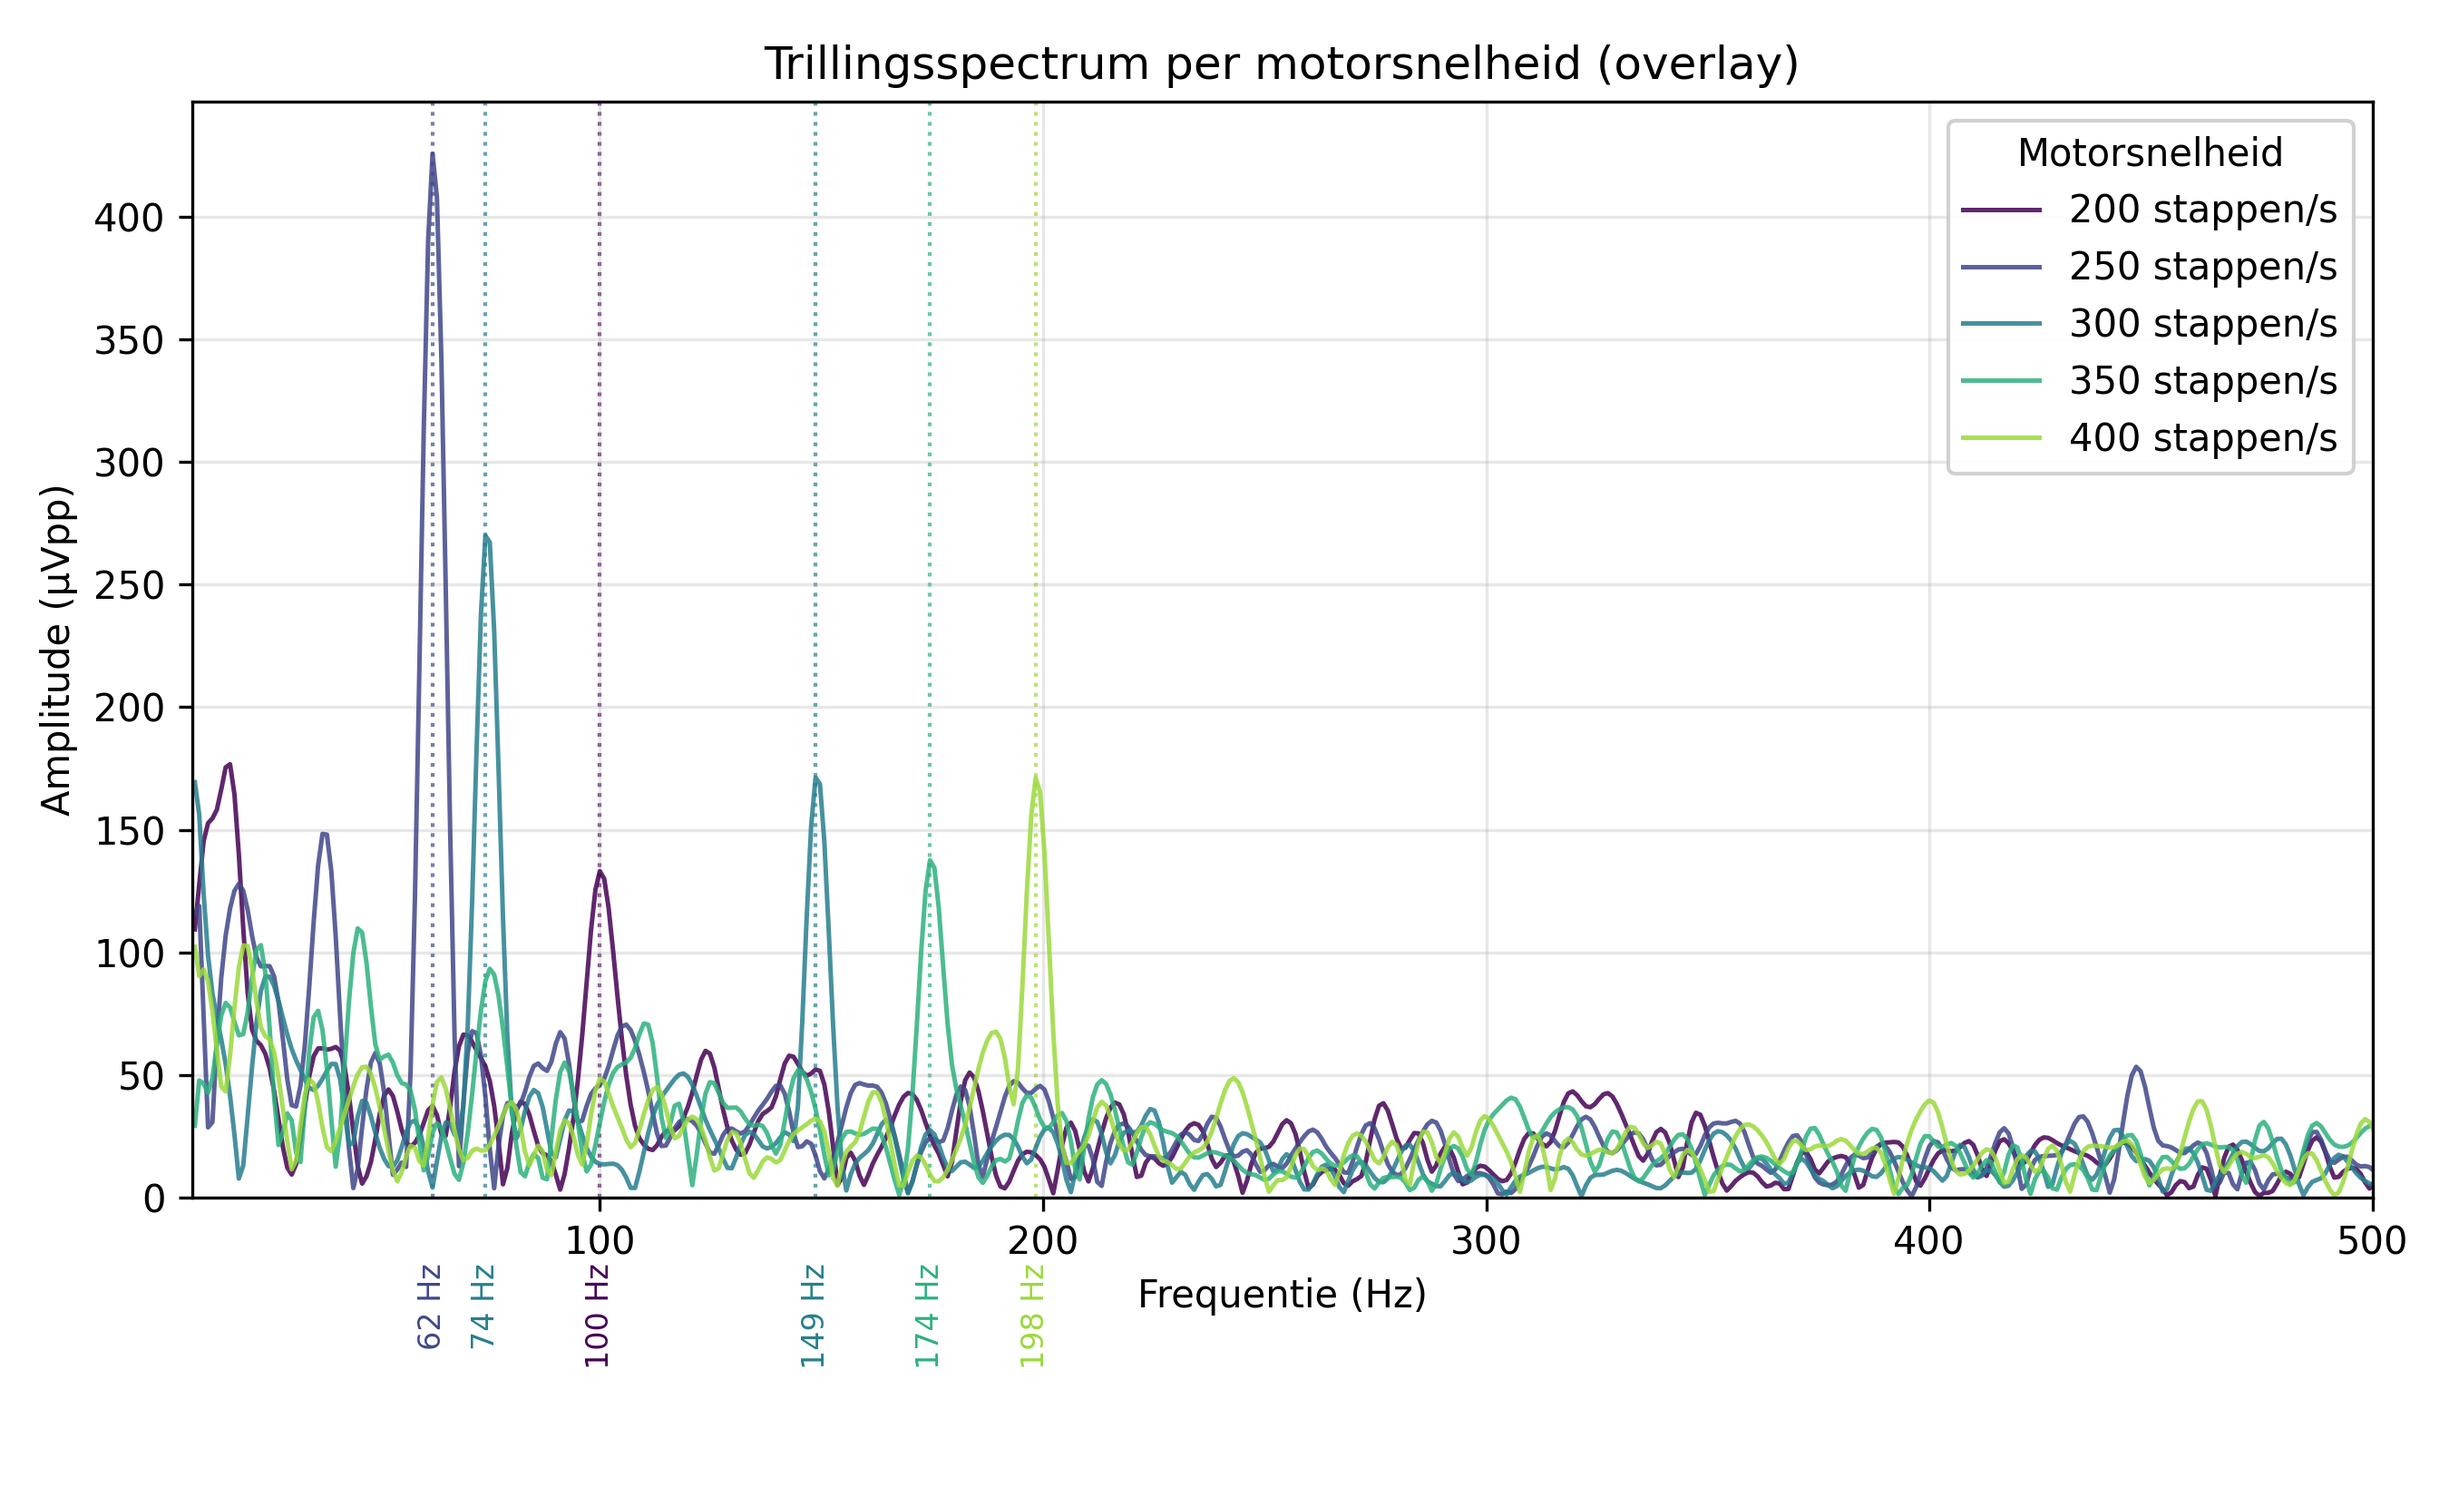
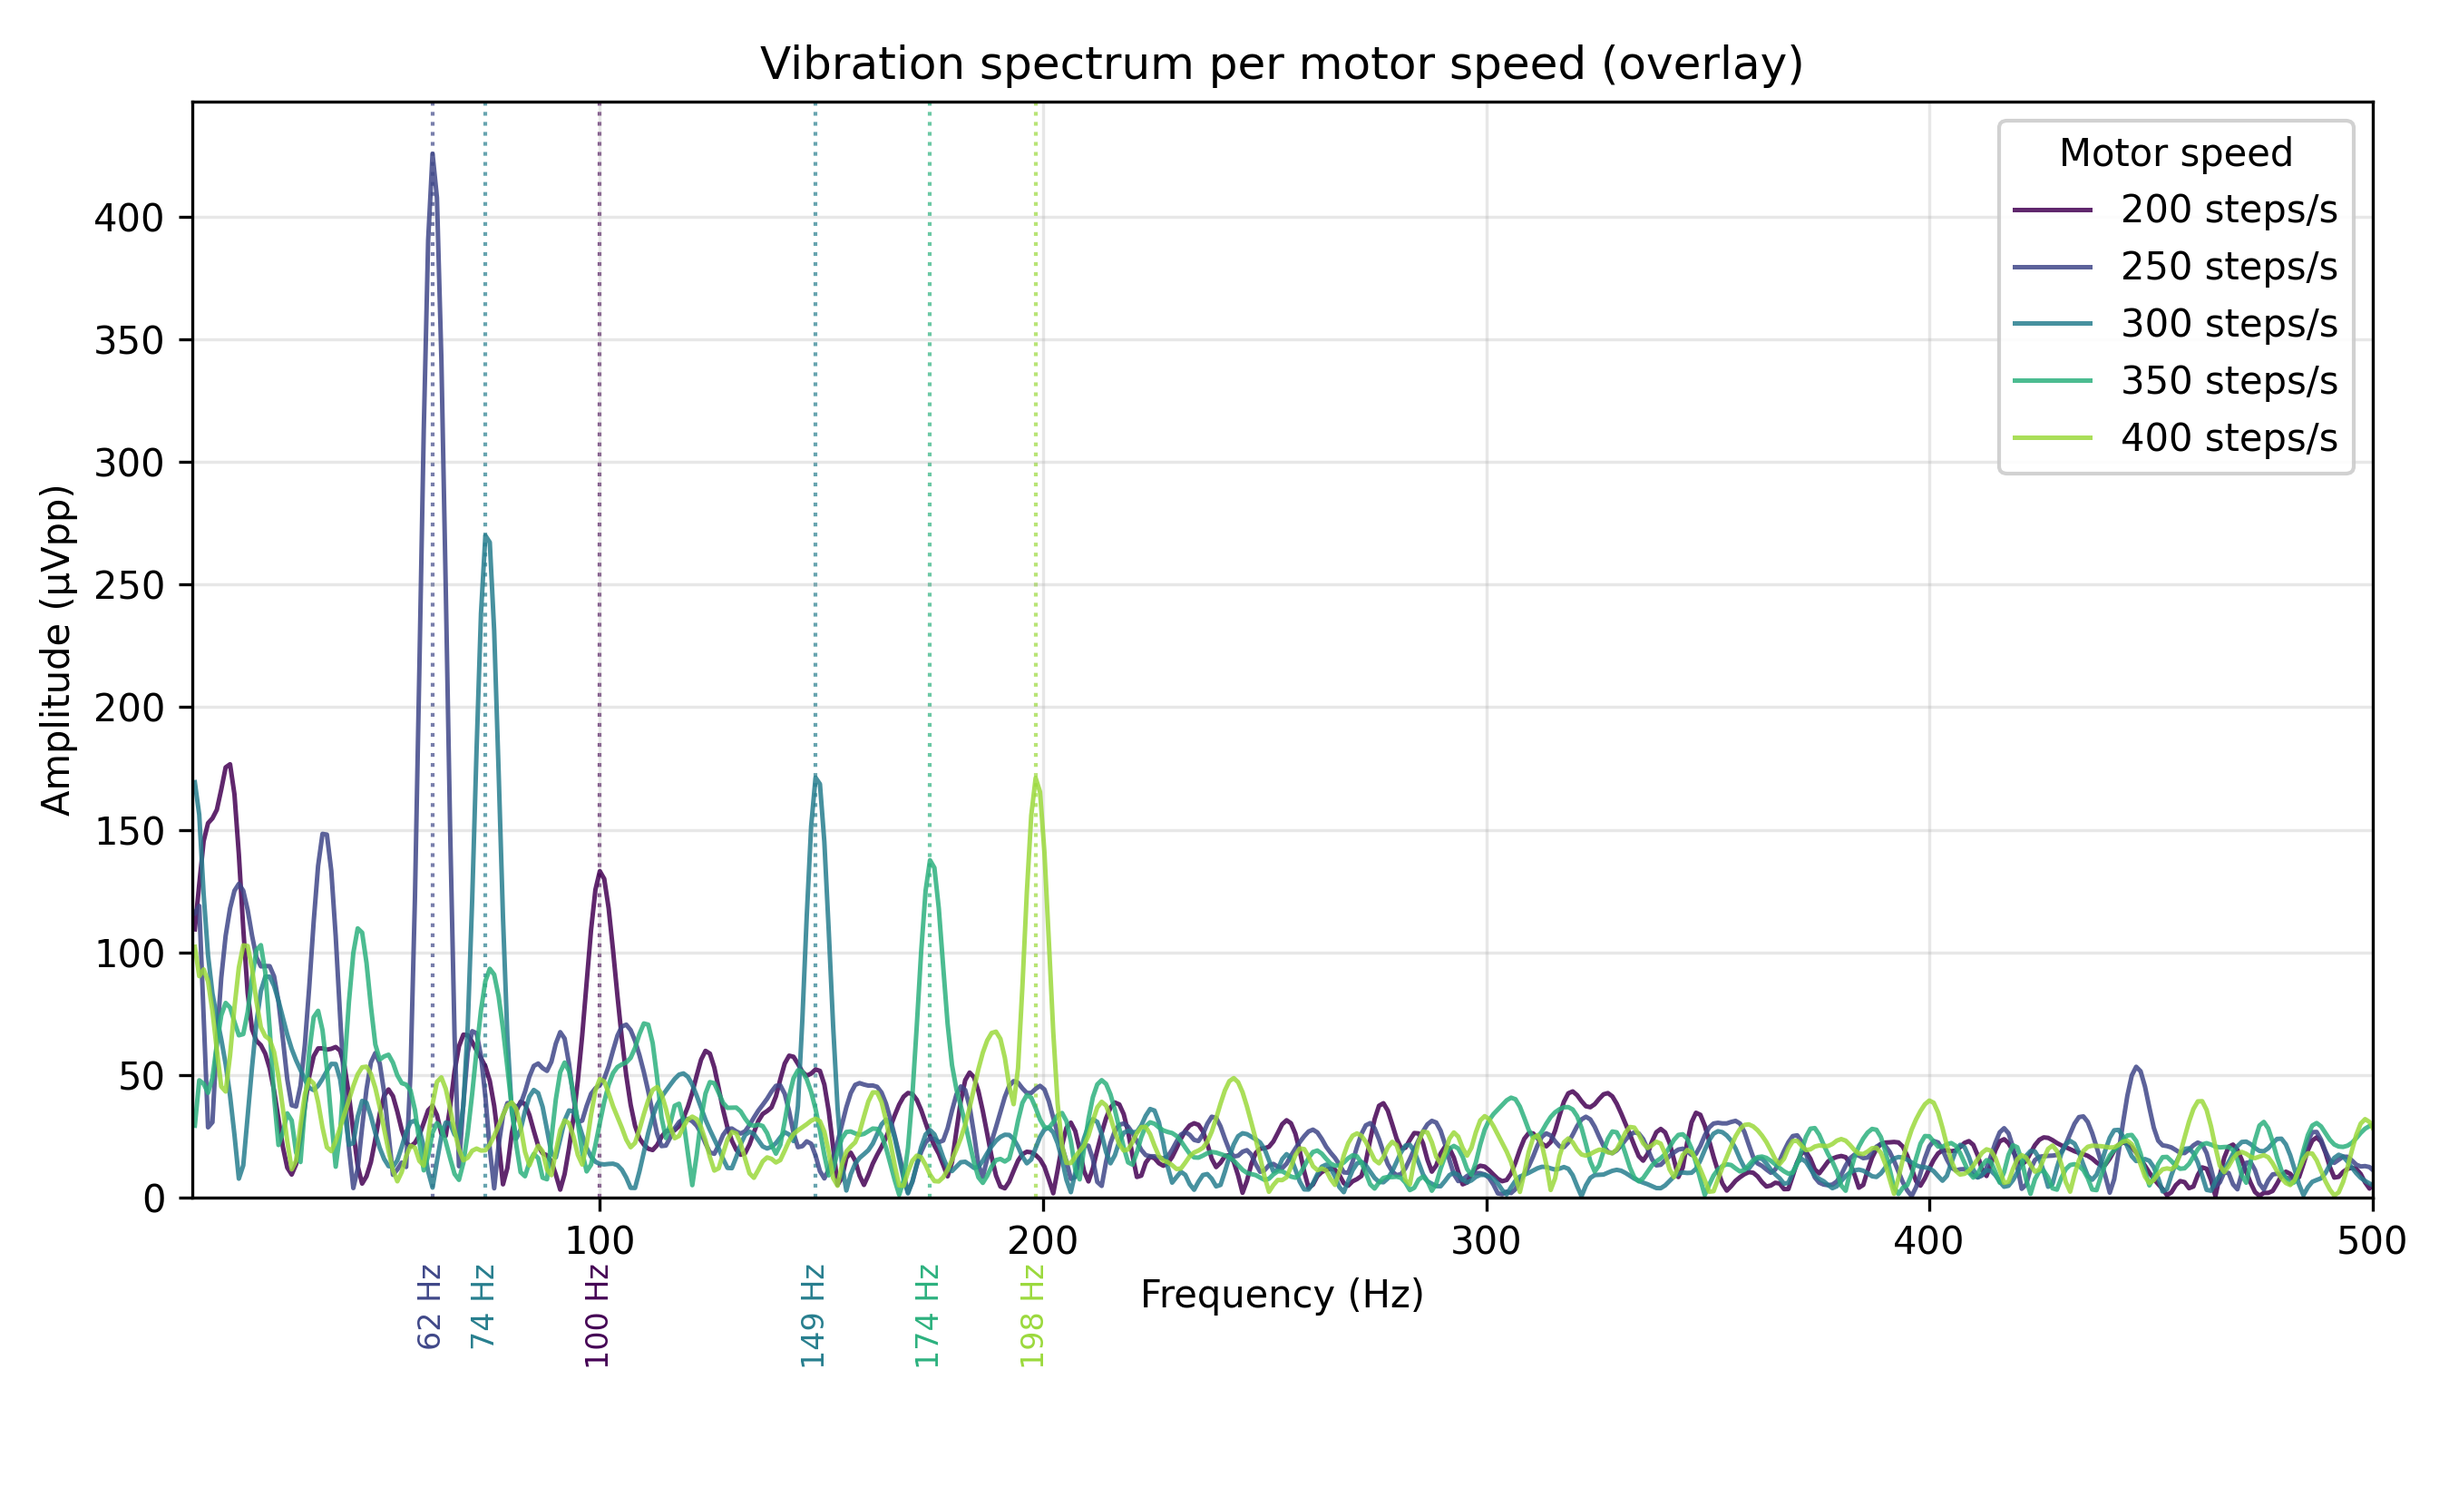
Final touches

Changed region(s): [[0.8089, 0.0927, 0.9644, 0.3091], [0.3111, 0.0309, 0.7467, 0.0618], [0.4667, 0.8345, 0.56, 0.8964]]

diff --git a/ui.py b/ui.py
@@ -38,6 +38,7 @@ from PySide6.QtWidgets import (
     QMainWindow,
     QMessageBox,
     QPushButton,
+    QScrollArea,
     QSizePolicy,
     QSpinBox,
     QSplitter,
@@ -1260,6 +1261,28 @@ class CameraCard(QFrame):
 
 # -------------------- Main window --------------------
 
+def _wrap_scroll(widget: QWidget) -> QScrollArea:
+    """Put *widget* inside a scrollable area so it never gets clipped.
+
+    When the available space is at least the widget's minimum size, the widget
+    fills the viewport exactly as before (no scrollbars). When the window is too
+    small or the display is heavily scaled, scrollbars appear instead of the
+    content being cut off, so every control stays reachable on any screen size.
+
+    The area is transparent and borderless so the existing QSS background and
+    card styling show through unchanged.
+    """
+    scroll = QScrollArea()
+    scroll.setWidgetResizable(True)
+    scroll.setFrameShape(QFrame.NoFrame)
+    scroll.setHorizontalScrollBarPolicy(Qt.ScrollBarAsNeeded)
+    scroll.setVerticalScrollBarPolicy(Qt.ScrollBarAsNeeded)
+    scroll.setWidget(widget)
+    scroll.viewport().setStyleSheet("background: transparent;")
+    scroll.setStyleSheet("QScrollArea { background: transparent; border: none; }")
+    return scroll
+
+
 class MainWindow(QMainWindow):
     def __init__(self) -> None:
         super().__init__()
@@ -1335,12 +1358,15 @@ class MainWindow(QMainWindow):
         camera_tab_v.addWidget(self.lamp_panel_buiten)
         camera_tab_v.addStretch(1)
 
+        # Each tab page is wrapped in a scroll area so a tall page (e.g. the
+        # Camera tab with both lamp panels) scrolls instead of being clipped on
+        # a short sidebar; the panels themselves are unchanged.
         self.tabs = QTabWidget()
         self.tabs.setDocumentMode(True)
-        self.tabs.addTab(self.recording_panel, "Manual")
-        self.tabs.addTab(self.calibration_graph_panel, "Calibration graph")
-        self.tabs.addTab(self.motor_panel, "Setup")
-        self.tabs.addTab(camera_tab, "Camera")
+        self.tabs.addTab(_wrap_scroll(self.recording_panel), "Manual")
+        self.tabs.addTab(_wrap_scroll(self.calibration_graph_panel), "Calibration graph")
+        self.tabs.addTab(_wrap_scroll(self.motor_panel), "Setup")
+        self.tabs.addTab(_wrap_scroll(camera_tab), "Camera")
         self.tabs.setCurrentIndex(2)  # start in Setup so you can connect first
 
         sidebar = QWidget()
@@ -1383,7 +1409,12 @@ class MainWindow(QMainWindow):
         body_v.setContentsMargins(12, 12, 12, 12)
         body_v.setSpacing(0)
         body_v.addWidget(v_splitter)
-        root_v.addWidget(body, stretch=1)
+        # Below this comfortable size the full layout (camera feed + sidebar +
+        # Moku plot) would have to squash to fit. Instead we keep it at this size
+        # and let the surrounding scroll area show scrollbars, so the whole UI
+        # stays usable on small or DPI-scaled laptop screens.
+        body.setMinimumSize(1040, 720)
+        root_v.addWidget(_wrap_scroll(body), stretch=1)
 
         self.setCentralWidget(root)
 

diff --git a/spectra_overlay.py b/spectra_overlay.py
@@ -80,7 +80,7 @@ def main() -> None:
         amp = vpp * 1e6
 
         ax.plot(freq, amp, color=color, lw=1.2, alpha=0.85,
-                label=f"{speed} stappen/s")
+                label=f"{speed} steps/s")
 
         # Pieken zoeken met absolute drempels, daarna de laagfrequente rommel
         # onder MIN_PEAK_FREQ_HZ eruit filteren.
@@ -106,11 +106,11 @@ def main() -> None:
 
     ax.set_xlim(F_MIN_HZ, 500.0)
     ax.set_ylim(bottom=0.0)
-    ax.set_xlabel("Frequentie (Hz)")
+    ax.set_xlabel("Frequency (Hz)")
     ax.set_ylabel("Amplitude (µVpp)")
-    ax.set_title("Trillingsspectrum per motorsnelheid (overlay)")
+    ax.set_title("Vibration spectrum per motor speed (overlay)")
     ax.grid(True, which="both", alpha=0.3)
-    ax.legend(title="Motorsnelheid", framealpha=0.9)
+    ax.legend(title="Motor speed", framealpha=0.9)
     fig.tight_layout()
     # Extra ruimte onderaan voor de Hz-labels die onder de x-as staan.
     fig.subplots_adjust(bottom=0.20)

diff --git a/gridsearch.py b/gridsearch.py
@@ -34,7 +34,8 @@ F1_VALUES = np.array([
     30,
     40,
     50,
-    60
+    60,
+    80
 ])
 F2_VALUES = np.array([
     60,
